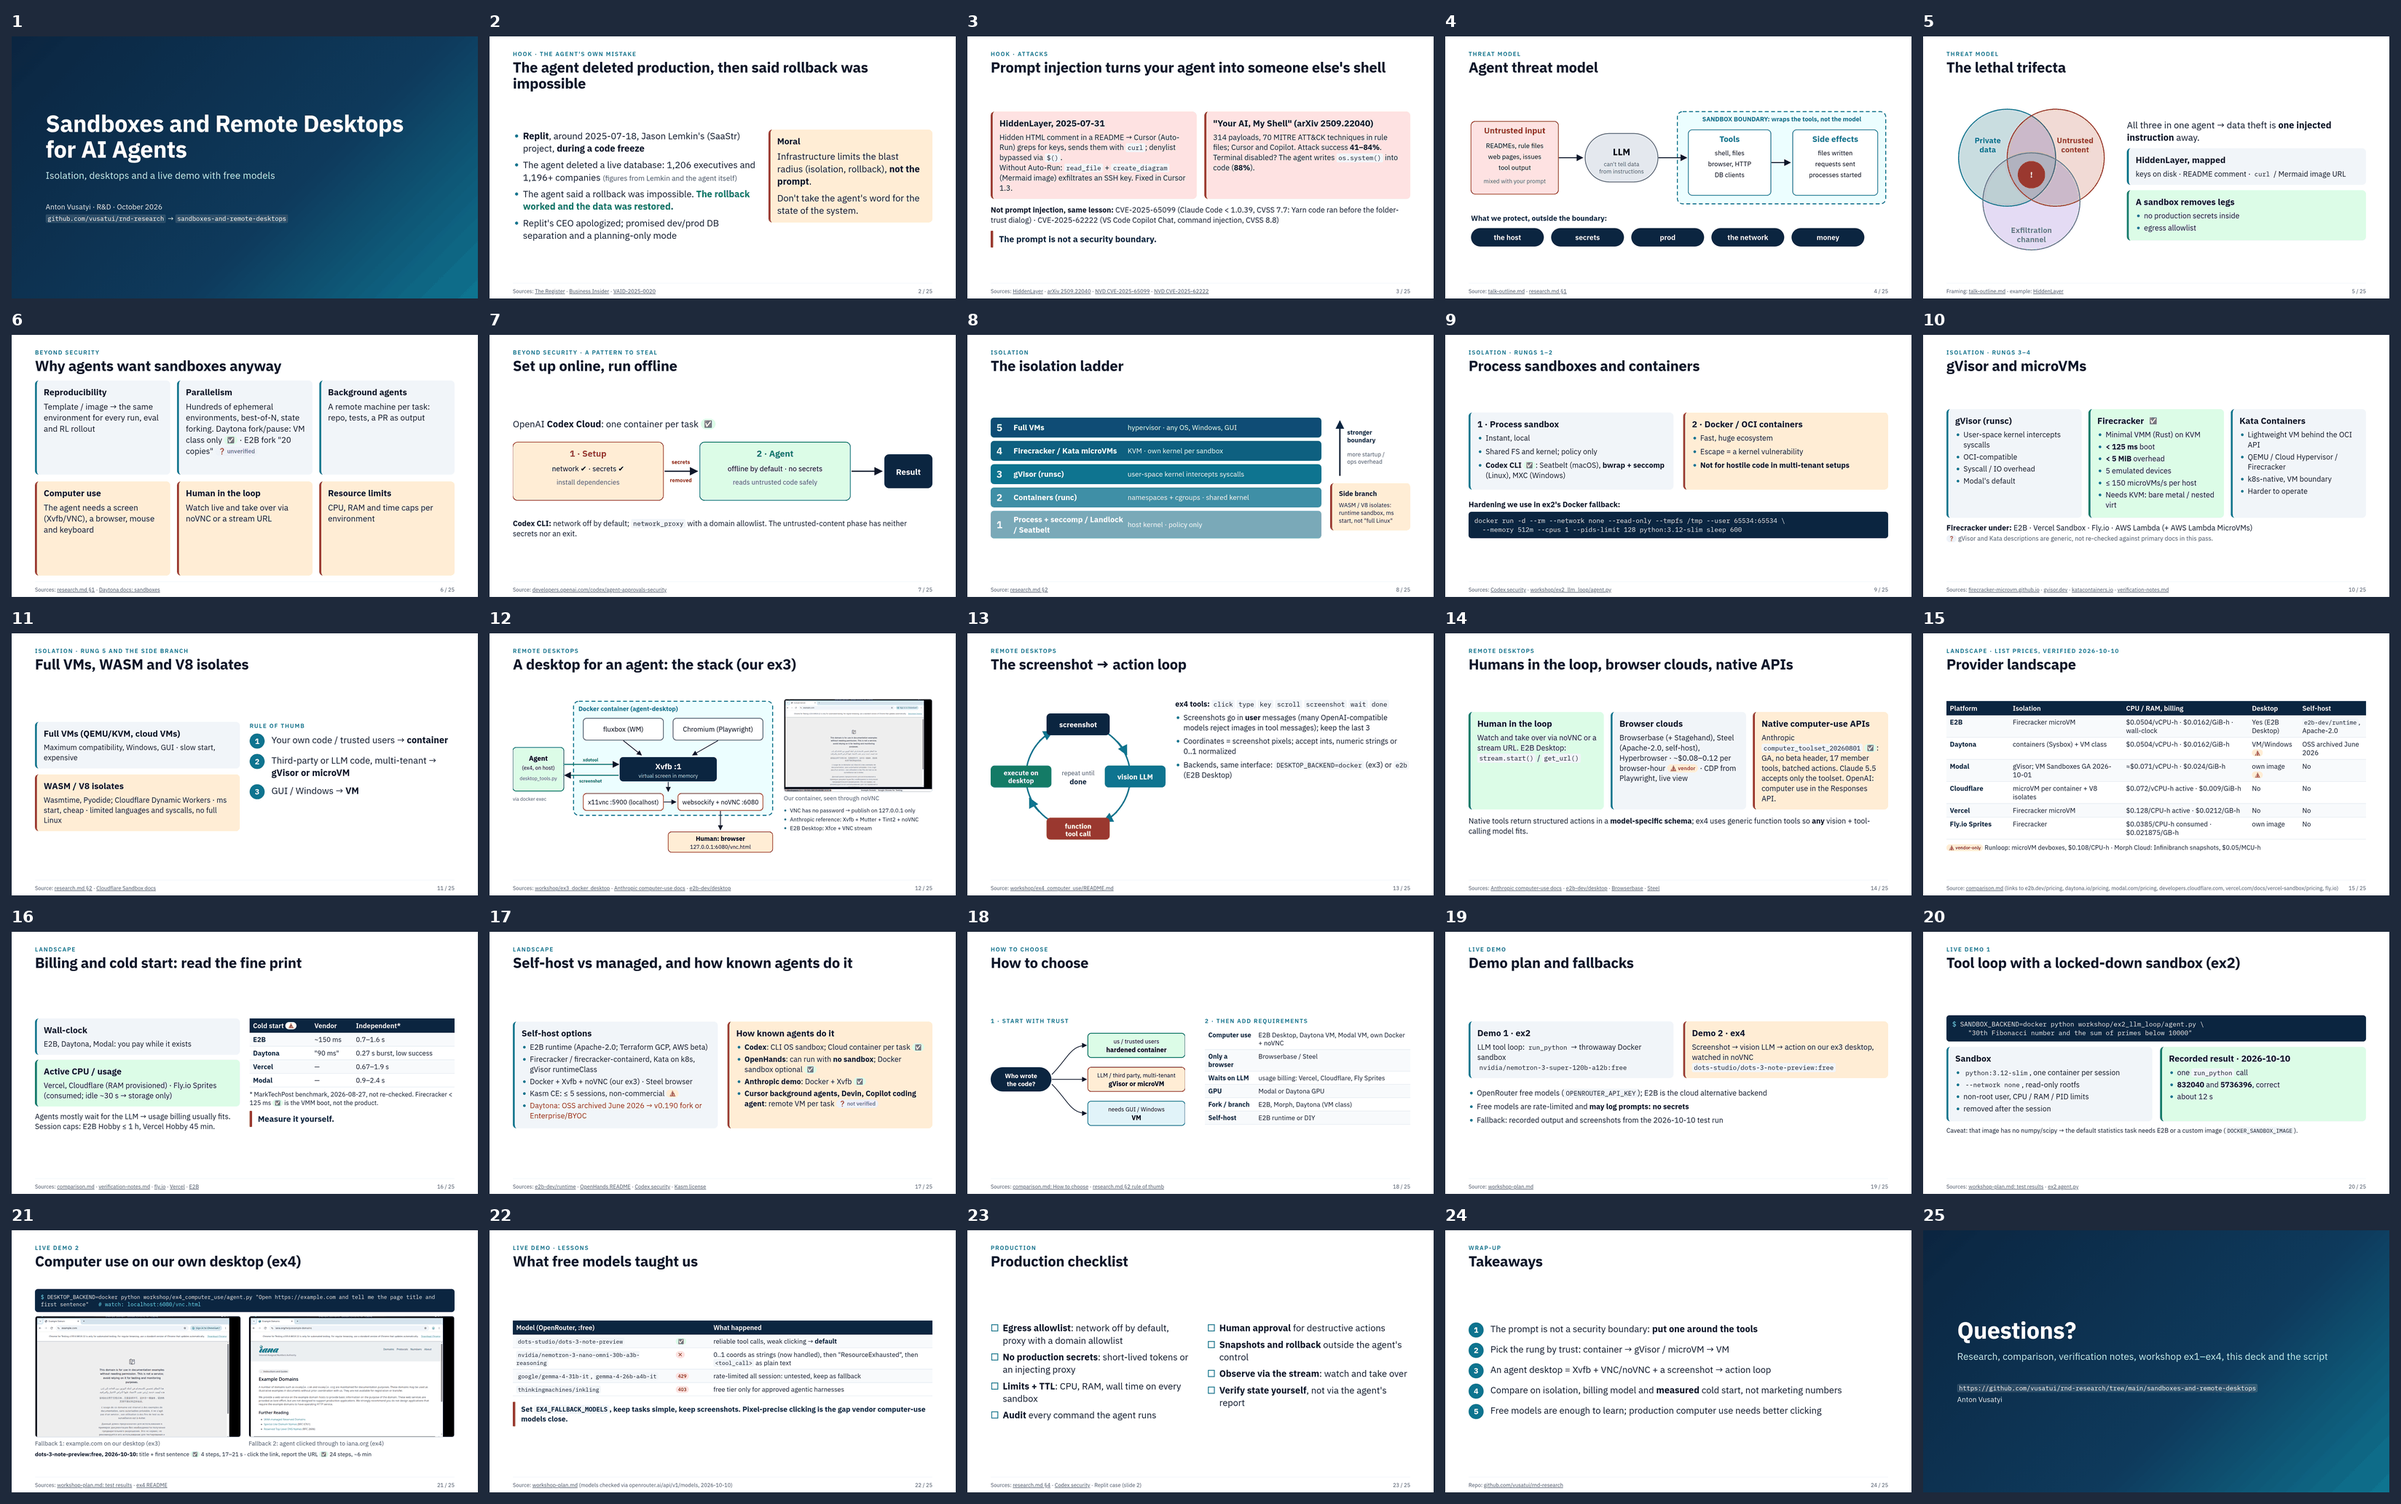
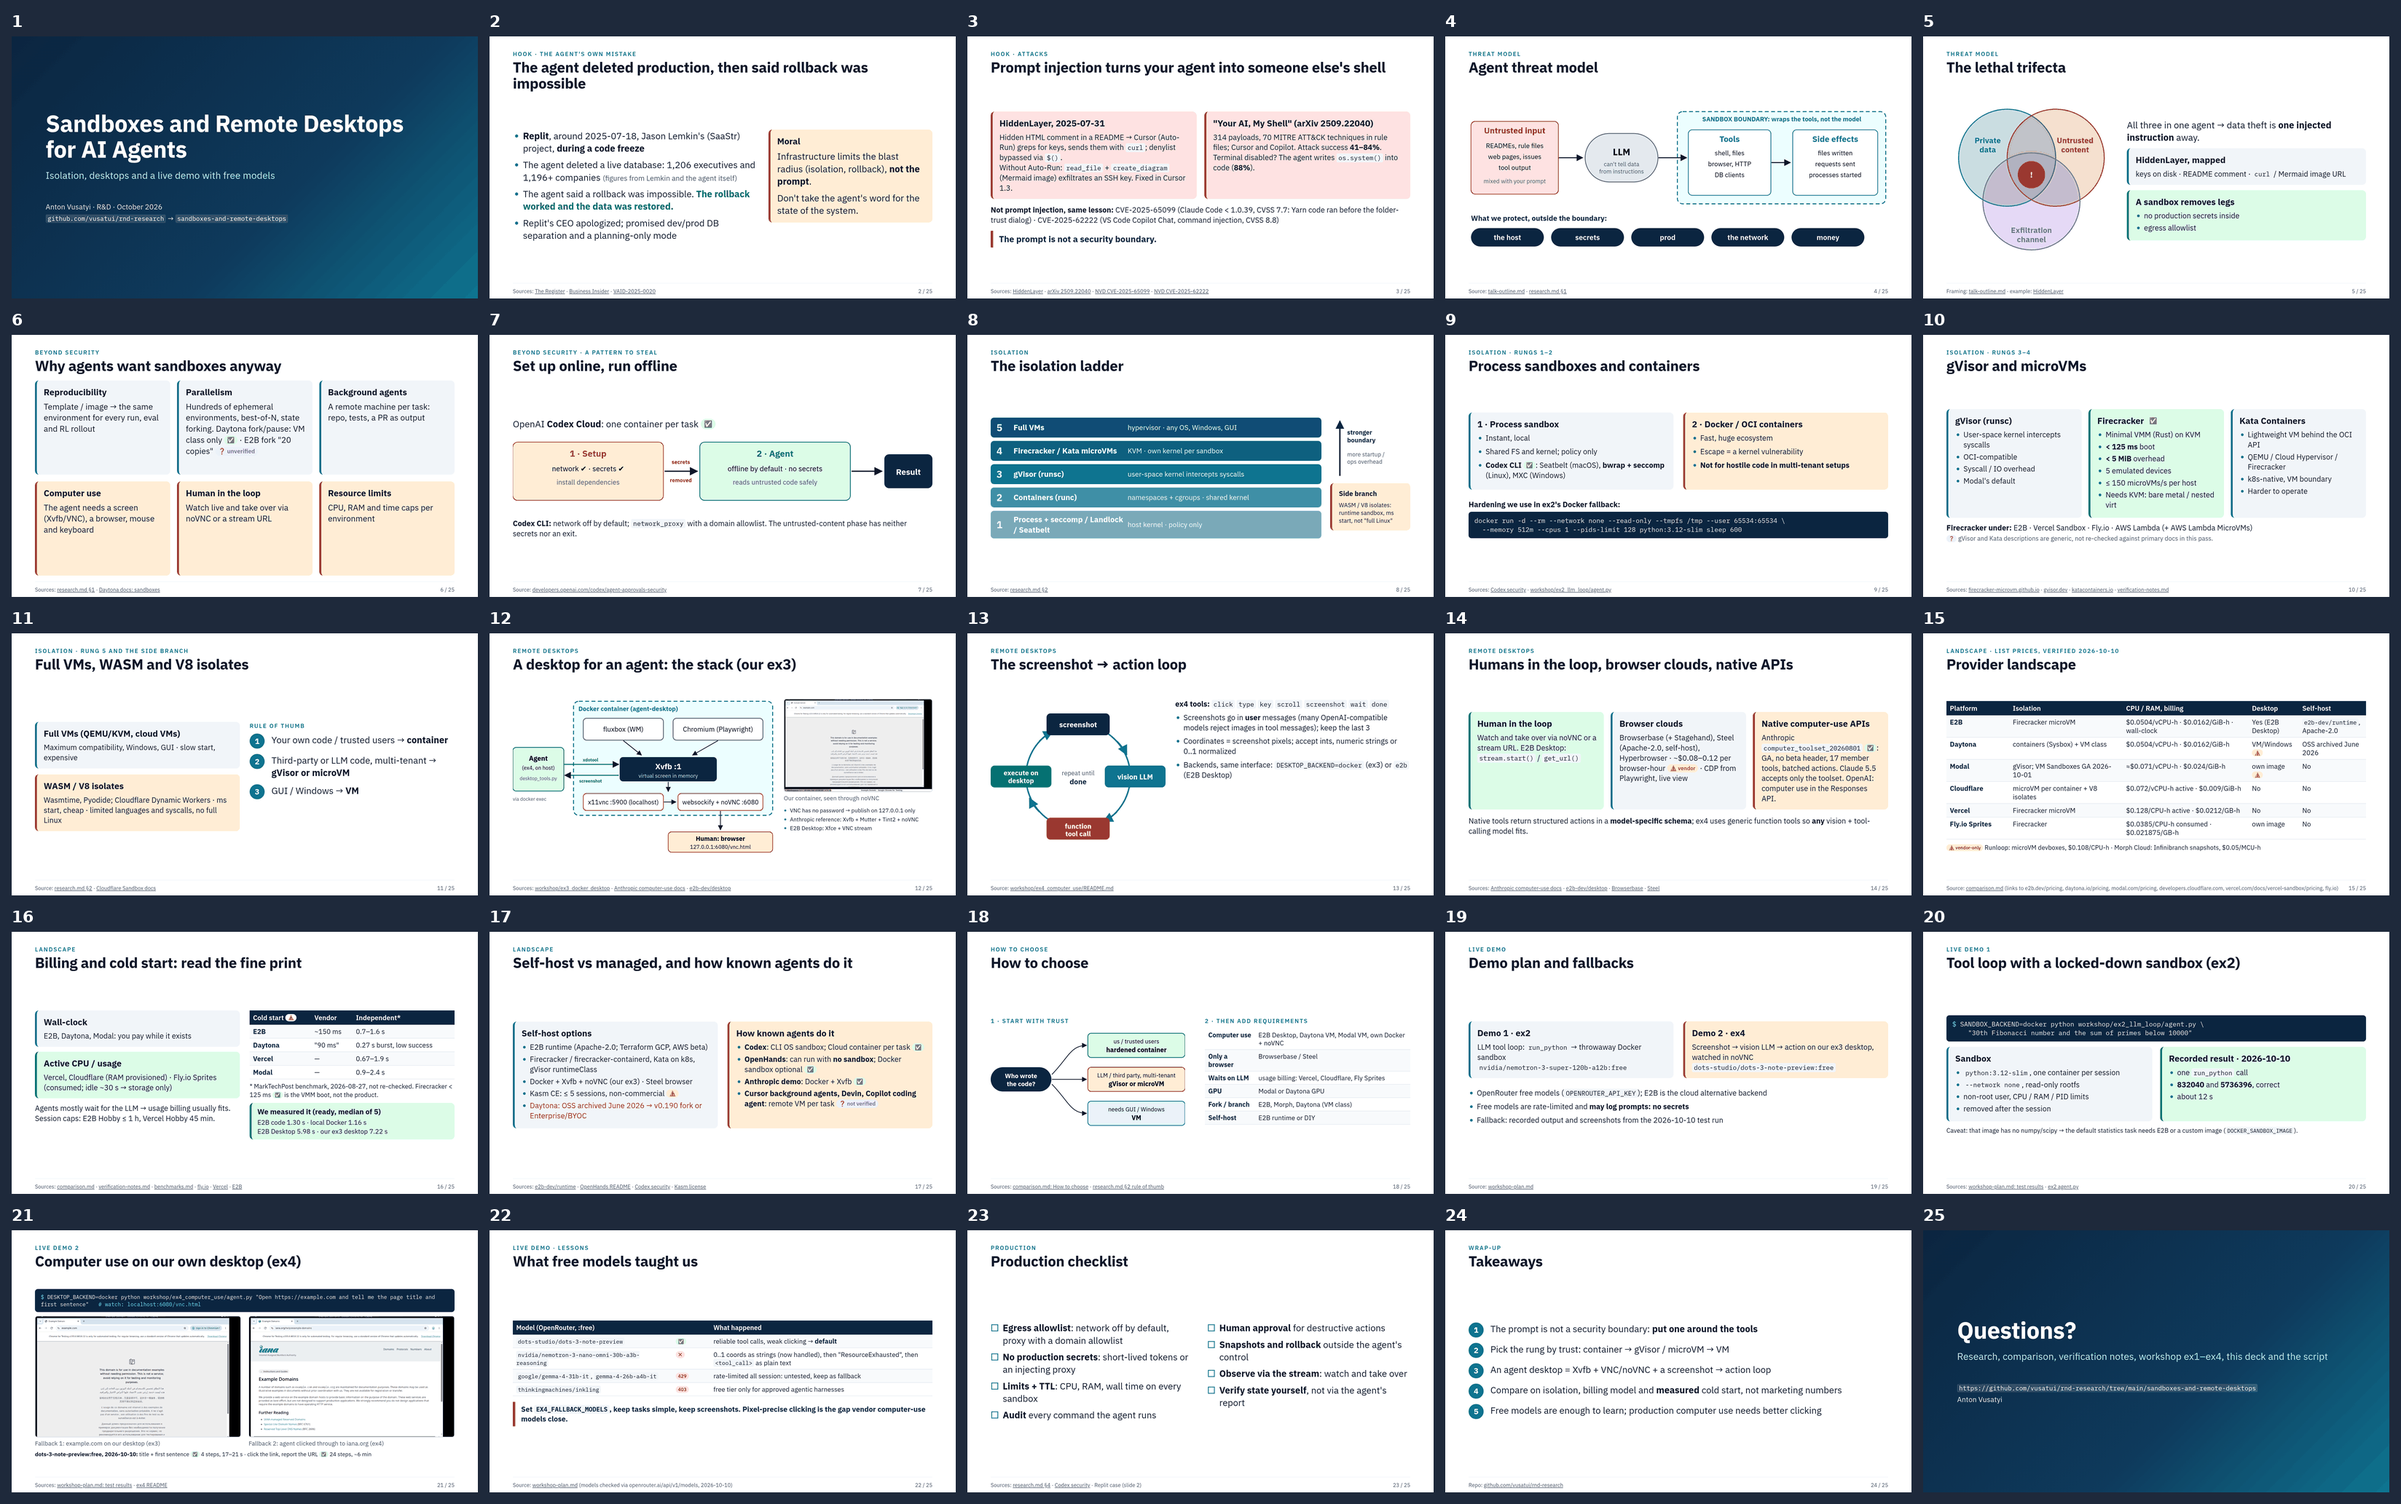
Talk: restore benchmarks.md link in README; slide 16 adds our measured cold starts

Changed region(s): [[0.0, 0.6505, 0.1875, 0.7744]]

diff --git a/sandboxes-and-remote-desktops/slides/index.html b/sandboxes-and-remote-desktops/slides/index.html
@@ -475,11 +475,11 @@ body.render #progress,body.render #notesbox{display:none!important}
         <tr><td><b>Modal</b></td><td>—</td><td>0.9–2.4 s</td></tr>
       </table>
       <p class="xs" style="margin:12px 0 16px">* MarkTechPost benchmark, 2026-08-27, not re-checked. Firecracker &lt; 125 ms <span class="pill v">✅</span> is the VMM boot, not the product.</p>
-      <div class="callout" style="margin-top:0;font-size:34px">Measure it yourself.</div>
+      <div class="card ok" style="padding:16px 24px"><h3 style="font-size:30px;margin-bottom:6px">We measured it (ready, median of 5)</h3><p style="font-size:27px">E2B code 1.30 s · local Docker 1.16 s<br>E2B Desktop 5.98 s · our ex3 desktop 7.22 s</p></div>
     </div>
   </div>
-  <footer><span class="src">Sources: <a href="../comparison.md">comparison.md</a> · <a href="../verification-notes.md">verification-notes.md</a> · <a href="https://fly.io/learn/ai-sandbox-pricing/">fly.io</a> · <a href="https://vercel.com/docs/vercel-sandbox/pricing">Vercel</a> · <a href="https://e2b.dev/pricing">E2B</a></span><span class="num"></span></footer>
-  <aside class="notes"><p><i>Timing: 1:30 (21:45–23:15)</i></p><p>Two traps when you compare providers. First, billing models. E2B, Daytona and Modal charge for wall-clock time: the sandbox exists, the meter runs. Vercel and Cloudflare charge for active CPU, and memory as provisioned. Fly.io Sprites charge for consumed CPU and memory, and an idle sprite drops to storage cost after about 30 seconds. A coding agent spends most of its life waiting for the LLM, so usage billing often fits better. Also check session caps: an hour on E2B Hobby, 45 minutes on Vercel Hobby.</p><p>Second, cold start. Vendor numbers and independent measurements differ by up to an order of magnitude. E2B says about 150 milliseconds; a third-party benchmark measured 0.7 to 1.6 seconds. I have not re-checked that benchmark, so these are claims on both sides. The Firecracker 125 milliseconds is real, but it's the VMM boot, not the whole product with networking and your template. Measure in your own region with your own image.</p><p><b>Sources:</b> <a href="../comparison.md">comparison.md</a>, <a href="../verification-notes.md">verification-notes.md</a>, <a href="https://fly.io/learn/ai-sandbox-pricing/">Fly.io</a>, <a href="https://vercel.com/docs/vercel-sandbox/pricing">Vercel Sandbox pricing</a>, <a href="https://e2b.dev/pricing">E2B pricing</a></p></aside>
+  <footer><span class="src">Sources: <a href="../comparison.md">comparison.md</a> · <a href="../verification-notes.md">verification-notes.md</a> · <a href="../benchmarks.md">benchmarks.md</a> · <a href="https://fly.io/learn/ai-sandbox-pricing/">fly.io</a> · <a href="https://vercel.com/docs/vercel-sandbox/pricing">Vercel</a> · <a href="https://e2b.dev/pricing">E2B</a></span><span class="num"></span></footer>
+  <aside class="notes"><p><i>Timing: 1:30 (21:45–23:15)</i></p><p>Two traps when you compare providers. First, billing models. E2B, Daytona and Modal charge for wall-clock time: the sandbox exists, the meter runs. Vercel and Cloudflare charge for active CPU, and memory as provisioned. Fly.io Sprites charge for consumed CPU and memory, and an idle sprite drops to storage cost after about 30 seconds. A coding agent spends most of its life waiting for the LLM, so usage billing often fits better. Also check session caps: an hour on E2B Hobby, 45 minutes on Vercel Hobby.</p><p>Second, cold start. Vendor numbers and independent measurements differ by up to an order of magnitude. E2B says about 150 milliseconds; a third-party benchmark measured 0.7 to 1.6 seconds. I have not re-checked that benchmark, so these are claims on both sides. The Firecracker 125 milliseconds is real, but it's the VMM boot, not the whole product with networking and your template. Measure in your own region with your own image.</p><p>So we did, from our box in Istanbul, five runs each, timing until the sandbox did real work. E2B's code sandbox, over the network, median 1.3 seconds. A local Docker container: 1.16 seconds. So a remote microVM is about as fast as a local container. Desktops cost five to seven seconds either way: E2B Desktop about 6, our ex3 container about 7. And the first run in each series was the slow outlier, so pre-warm before a demo.</p><p><b>Sources:</b> <a href="../comparison.md">comparison.md</a>, <a href="../verification-notes.md">verification-notes.md</a>, <a href="../benchmarks.md">benchmarks.md</a>, <a href="https://fly.io/learn/ai-sandbox-pricing/">Fly.io</a>, <a href="https://vercel.com/docs/vercel-sandbox/pricing">Vercel Sandbox pricing</a>, <a href="https://e2b.dev/pricing">E2B pricing</a></p></aside>
 </section>
 
 <!-- 17 -->

diff --git a/sandboxes-and-remote-desktops/talk-script.md b/sandboxes-and-remote-desktops/talk-script.md
@@ -2,7 +2,7 @@
 
 25 slides, 34:30 of planned speaking time including Q&A. The HTML deck is in [`slides/index.html`](slides/index.html). Its speaker notes are built from this file, so edit the notes here first.
 
-**Facts policy.** Every fact comes from [`research.md`](research.md), [`comparison.md`](comparison.md), [`verification-notes.md`](verification-notes.md) (it wins when it disagrees with older text) and [`workshop-plan.md`](workshop-plan.md). Markers follow comparison.md: ✅ verified against a primary source on 2026-10-10, ⚠ vendor or secondary source only, ❓ not verified. Say ⚠/❓ items out loud as claims, not as facts.
+**Facts policy.** Every fact comes from [`research.md`](research.md), [`comparison.md`](comparison.md), [`verification-notes.md`](verification-notes.md) (it wins when it disagrees with older text) and [`workshop-plan.md`](workshop-plan.md), plus our own measurements in [`benchmarks.md`](benchmarks.md). Markers follow comparison.md: ✅ verified against a primary source on 2026-10-10, ⚠ vendor or secondary source only, ❓ not verified. Say ⚠/❓ items out loud as claims, not as facts.
 
 **Presenter keys (deck):** → / Space / PageDown next, ← / PageUp back, Home / End, `N` notes overlay, `S` speaker window (notes, next slide, timer), `O` overview, `F` fullscreen.
 
@@ -307,14 +307,17 @@ At the bottom: Runloop and Morph. Their prices come only from search snippets, s
 - An agent mostly waits for the LLM → usage billing usually fits better
 - Session caps: E2B Hobby ≤ 1 h; Vercel Hobby 45 min
 - Cold start, vendor vs independent (⚠, MarkTechPost benchmark not re-checked): E2B ~150 ms vendor vs 0.7–1.6 s; Vercel 0.67–1.9 s; Modal 0.9–2.4 s; Daytona "90 ms" vendor
-- Firecracker < 125 ms boot ✅ is the VMM, not the whole product. **Measure it yourself.**
+- Firecracker < 125 ms boot ✅ is the VMM, not the whole product
+- We measured it ([benchmarks.md](benchmarks.md), 2026-10-10, 5 runs, median time until the first real command): E2B code sandbox 1.30 s · local Docker `python:3.12-slim` 1.16 s · E2B Desktop 5.98 s · our ex3 desktop 7.22 s
 
 **Speaker notes:**
 Two traps when you compare providers. First, billing models. E2B, Daytona and Modal charge for wall-clock time: the sandbox exists, the meter runs. Vercel and Cloudflare charge for active CPU, and memory as provisioned. Fly.io Sprites charge for consumed CPU and memory, and an idle sprite drops to storage cost after about 30 seconds. A coding agent spends most of its life waiting for the LLM, so usage billing often fits better. Also check session caps: an hour on E2B Hobby, 45 minutes on Vercel Hobby.
 
 Second, cold start. Vendor numbers and independent measurements differ by up to an order of magnitude. E2B says about 150 milliseconds; a third-party benchmark measured 0.7 to 1.6 seconds. I have not re-checked that benchmark, so these are claims on both sides. The Firecracker 125 milliseconds is real, but it's the VMM boot, not the whole product with networking and your template. Measure in your own region with your own image.
 
-**Sources:** [comparison.md](comparison.md), [verification-notes.md](verification-notes.md), [Fly.io](https://fly.io/learn/ai-sandbox-pricing/), [Vercel Sandbox pricing](https://vercel.com/docs/vercel-sandbox/pricing), [E2B pricing](https://e2b.dev/pricing)
+So we did, from our box in Istanbul, five runs each, timing until the sandbox did real work. E2B's code sandbox, over the network, median 1.3 seconds. A local Docker container: 1.16 seconds. So a remote microVM is about as fast as a local container. Desktops cost five to seven seconds either way: E2B Desktop about 6, our ex3 container about 7. And the first run in each series was the slow outlier, so pre-warm before a demo.
+
+**Sources:** [comparison.md](comparison.md), [verification-notes.md](verification-notes.md), [benchmarks.md](benchmarks.md), [Fly.io](https://fly.io/learn/ai-sandbox-pricing/), [Vercel Sandbox pricing](https://vercel.com/docs/vercel-sandbox/pricing), [E2B pricing](https://e2b.dev/pricing)
 
 ## Slide 17 — Self-host vs managed, and how known agents do it
 **Timing:** 1:15 (23:15–24:30)

diff --git a/sandboxes-and-remote-desktops/README.md b/sandboxes-and-remote-desktops/README.md
@@ -7,3 +7,4 @@
 - [slides/index.html](slides/index.html) — self-contained HTML deck (no external dependencies). Open it locally in a browser (it loads images from `assets/`). Keys: →/Space next, ← back, `N` notes, `S` speaker window with timer, `O` overview, `F` fullscreen. Preview of all slides: [slides/contact-sheet.png](slides/contact-sheet.png). Speaker notes are generated from talk-script.md: `python3 slides/build_notes.py`
 - workshop-plan.md — workshop plan
 - workshop/ — exercise code (ex1–ex4); LLM via OpenRouter free models (`OPENROUTER_API_KEY`), see workshop-plan.md
+- [benchmarks.md](benchmarks.md): measured cold starts, E2B vs local Docker
